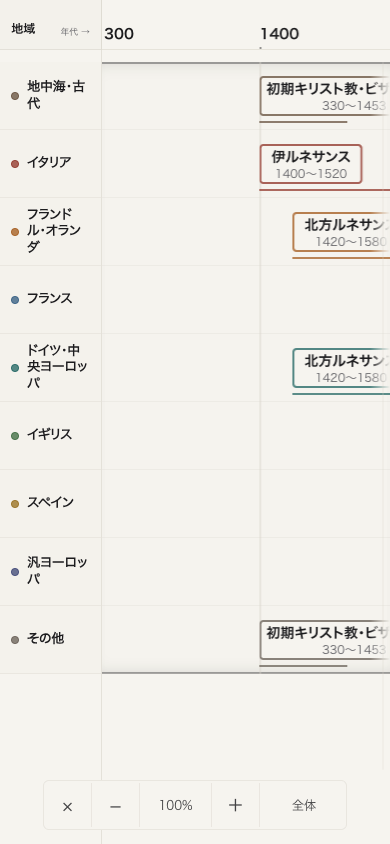
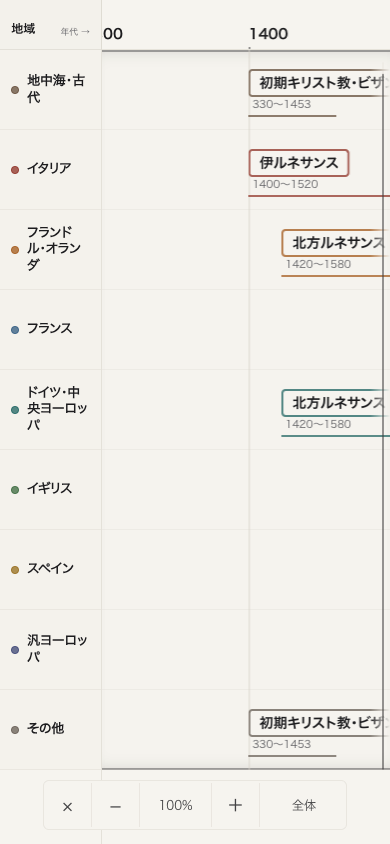
Refine timeline caption spacing

diff --git a/src/app/globals.css b/src/app/globals.css
@@ -1402,8 +1402,10 @@ html.dark .relation-badge {
   min-width: 4.5rem;
   max-width: 14.375rem;
   height: 2.75rem;
-  align-items: center;
+  flex-direction: column;
+  align-items: flex-start;
   justify-content: center;
+  gap: 0.125rem;
   color: rgb(var(--c-ink));
   font-family: var(--font-sans);
   text-decoration: none;
@@ -1440,12 +1442,10 @@ html.dark .relation-badge {
   position: relative;
   display: flex;
   width: 100%;
-  height: 2.5rem;
-  flex-direction: column;
+  height: 1.875rem;
   align-items: center;
   justify-content: center;
-  gap: 0.125rem;
-  padding-inline: 0.75rem;
+  padding-inline: 0.6875rem;
   overflow: hidden;
   border: 2px solid
     rgb(var(--timeline-region-rgb, var(--c-line)) / 0.82);
@@ -1514,10 +1514,11 @@ html.dark .relation-badge {
   display: block;
   overflow: hidden;
   max-width: 100%;
+  padding-inline: 0.25rem;
   color: rgb(var(--c-muted));
-  font-size: 0.71875rem;
+  font-size: 0.65625rem;
   font-weight: 400;
-  line-height: 1;
+  line-height: 1.05;
   text-overflow: ellipsis;
   white-space: nowrap;
 }
@@ -1599,7 +1600,7 @@ html.dark .relation-badge {
 
 .timeline-viewer-frame--active[data-semantic-level='detailed']
   .timeline-viewer-node__surface {
-  height: 2.5rem;
+  height: 1.875rem;
 }
 
 .timeline-viewer-position {
@@ -1699,8 +1700,8 @@ html.dark .relation-badge {
   }
 
   .timeline-viewer-node__surface {
-    height: 2.5rem;
-    padding-inline: 0.625rem;
+    height: 1.75rem;
+    padding-inline: 0.5625rem;
   }
 
   .timeline-viewer-node__short,
@@ -1711,7 +1712,7 @@ html.dark .relation-badge {
 
   .timeline-viewer-frame--active[data-semantic-level='detailed']
     .timeline-viewer-node__surface {
-    height: 2.5rem;
+    height: 1.75rem;
   }
 
   .timeline-viewer-controls {

diff --git a/src/components/TimelineViewerFrame.tsx b/src/components/TimelineViewerFrame.tsx
@@ -577,12 +577,8 @@ export function TimelineViewerFrame({
         node.style.visibility = visible ? 'visible' : 'hidden';
         node.dataset.viewerTrack = String(placement.track);
         if (period) {
-          const surfaceHeight =
-            node.querySelector<HTMLElement>('.timeline-viewer-node__surface')
-              ?.offsetHeight ?? 32;
-          const surfaceBottom =
-            trackCenterY - surfaceHeight / 2 + surfaceHeight;
-          const periodY = surfaceBottom + 6;
+          const nodeTop = trackCenterY - node.offsetHeight / 2;
+          const periodY = nodeTop + node.offsetHeight + 4;
           period.style.width = `${Math.max(1, periodRight - periodLeft)}px`;
           period.style.transform = `translate3d(${periodLeft}px, ${periodY}px, 0)`;
           period.style.visibility =
@@ -1520,9 +1516,9 @@ export function TimelineViewerFrame({
                     <span className="timeline-viewer-node__formal">
                       {node.nameJa}
                     </span>
-                    <span className="timeline-viewer-node__date">
-                      {node.dateLabel}
-                    </span>
+                  </span>
+                  <span className="timeline-viewer-node__date">
+                    {node.dateLabel}
                   </span>
                 </Link>
               ))}

diff --git a/src/lib/timeline-viewer.ts b/src/lib/timeline-viewer.ts
@@ -60,7 +60,7 @@ export const TIMELINE_VIEWER_SEMANTIC_THRESHOLDS = {
 } as const;
 export const TIMELINE_VIEWER_LABEL_GAP = 10;
 export const TIMELINE_VIEWER_MAX_TRACKS = 4;
-export const TIMELINE_VIEWER_TRACK_PITCH = 40;
+export const TIMELINE_VIEWER_TRACK_PITCH = 50;
 
 const TIMELINE_VIEWER_TICK_STEPS = [
   10, 25, 50, 100, 250, 500, 1000, 2500, 5000, 10000,
@@ -252,10 +252,16 @@ export function assignTimelineViewerTracks(
 }
 
 export function timelineViewerRegionHeight(trackCount: number) {
-  if (trackCount <= 1) return 68;
-  if (trackCount === 2) return 102;
-  if (trackCount === 3) return 136;
-  return 168 + Math.max(0, trackCount - 4) * TIMELINE_VIEWER_TRACK_PITCH;
+  const visibleTrackCount = Math.max(
+    1,
+    Math.min(trackCount, TIMELINE_VIEWER_MAX_TRACKS),
+  );
+  return (
+    80 +
+    (visibleTrackCount - 1) * TIMELINE_VIEWER_TRACK_PITCH +
+    Math.max(0, trackCount - TIMELINE_VIEWER_MAX_TRACKS) *
+      TIMELINE_VIEWER_TRACK_PITCH
+  );
 }
 
 export function timelineViewerTrackCenter(

diff --git a/tests/unit/timeline-viewer.test.ts b/tests/unit/timeline-viewer.test.ts
@@ -243,12 +243,12 @@ describe('timeline viewer geometry', () => {
   });
 
   it('トラック数に応じて地域高と中心位置を調整する', () => {
-    expect(timelineViewerRegionHeight(1)).toBe(68);
-    expect(timelineViewerRegionHeight(2)).toBe(102);
-    expect(timelineViewerRegionHeight(3)).toBe(136);
-    expect(timelineViewerRegionHeight(4)).toBe(168);
-    expect(timelineViewerTrackCenter(0, 1)).toBe(34);
-    expect(timelineViewerTrackCenter(0, 3)).toBe(28);
-    expect(timelineViewerTrackCenter(2, 3)).toBe(108);
+    expect(timelineViewerRegionHeight(1)).toBe(80);
+    expect(timelineViewerRegionHeight(2)).toBe(130);
+    expect(timelineViewerRegionHeight(3)).toBe(180);
+    expect(timelineViewerRegionHeight(4)).toBe(230);
+    expect(timelineViewerTrackCenter(0, 1)).toBe(40);
+    expect(timelineViewerTrackCenter(0, 3)).toBe(40);
+    expect(timelineViewerTrackCenter(2, 3)).toBe(140);
   });
 });
